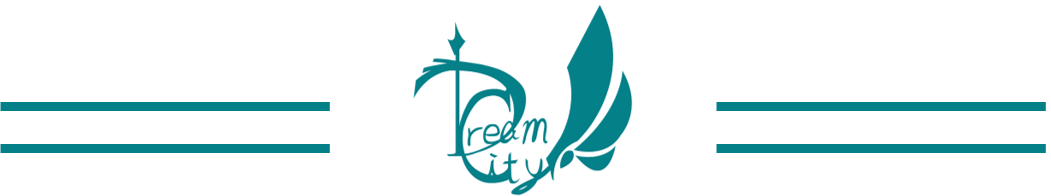
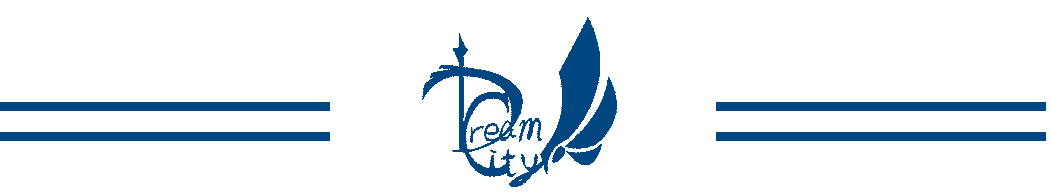
email

diff --git a/email/y.html b/email/y.html
@@ -127,7 +127,6 @@
 		}
 	</style>
 
-    <meta name="keywords" content="minecraft 地圖,minecraft地圖,rpg,麥塊地圖,pve,minecraft rpg地圖,minecraft 生存地圖,創世神地圖,島國勇者,minecraft地圖下載,過五關斬六將,minecraft 地圖下載,麥塊 地圖,minecraft大型生存地圖,minecraft 解謎地圖,創世神 地圖,minecraft生存地圖,mc地圖,夢想之都,賣快地圖,minecraft冒險地圖,minecraft ctm,地圖minecraft,minecraft 多人地圖,ctm minecraft,minecraft解謎地圖,地圖 minecraft,minecraft pvp地圖,mc 地圖,解謎地圖,minecraft 地圖推薦,島國,minecraft多人rpg地圖,生存地圖,minecraft map 巴哈,minecraft多人地圖,minecraft多人解謎地圖,minecraft rpg生存地圖,魏滅蜀之戰,科洛維亞大陸ii,minecraft rpg 地圖,minecraft 解謎,麥塊地圖下載,minecraft 雙人地圖,minecraft 冒險地圖,賣快 地圖,minecraft ctm地圖,minecraft雙人解謎地圖,minecraft pve地圖,ctm地圖,我的世界地圖,地圖,minecraft 單人地圖,1.12.2 地圖,絕界行,minecraft rpg map,minecraft解謎地圖多人,minecraft 伺服器,minecraft 推薦地圖,minecraft 1.16.1 地圖,minecraft 1.12.2 地圖,minecraft 生存,麥快地圖,minecraft 大型生存地圖,夢都,1.16.1 地圖,minecraft地圖推薦,minecraft 地圖 下載,科洛維亞,rpg地圖,minecraft雙人地圖,minecraft恐怖解謎地圖,pvp pve,ㄇㄞˉ塊地圖,minecraft 島國勇者,麥塊生存地圖,minecraft rpg冒險地圖,minecraft server權限設定,島國勇者 攻略,當個創世神 地圖,麥塊 地圖下載,minecraft ctm地圖下載,minecraft 解謎地圖 多人,minecraft大型rpg地圖,夢想之都 minecraft,minecraft 地图,pvp地圖,minecraft 多人rpg地圖,詛咒之冬,minecraft ctm map,minecraft 好玩地圖,minecraft 地圖 推薦,我的世界 地圖" />
 
 </head>
 <body class="clean-body" style="margin: 0; padding: 0; -webkit-text-size-adjust: 100%; background-color: #f1f4f8;">
@@ -208,7 +207,7 @@
 <!--[if mso]><table width="100%" cellpadding="0" cellspacing="0" border="0"><tr><td style="padding-right: 40px; padding-left: 40px; padding-top: 10px; padding-bottom: 15px; font-family: Tahoma, sans-serif"><![endif]-->
 <div style="color:#555555;font-family:Trebuchet MS, Lucida Grande, Lucida Sans Unicode, Lucida Sans, Tahoma, sans-serif;line-height:1.2;padding-top:10px;padding-right:40px;padding-bottom:15px;padding-left:40px;">
 <div style="line-height: 1.2; font-size: 12px; color: #555555; font-family: Trebuchet MS, Lucida Grande, Lucida Sans Unicode, Lucida Sans, Tahoma, sans-serif; mso-line-height-alt: 14px;">
-<p style="font-size: 38px; line-height: 1.2; text-align: center; word-break: break-word; mso-line-height-alt: 46px; margin: 0;"><span style="font-size: 38px; color: #048089;"><strong>成員招募審核結果</strong></span></p>
+<p style="font-size: 38px; line-height: 1.2; text-align: center; word-break: break-word; mso-line-height-alt: 46px; margin: 0;"><span style="font-size: 38px; color: #004680;"><strong>成員招募審核結果</strong></span></p>
 </div>
 </div>
 <!--[if mso]></td></tr></table><![endif]-->
@@ -220,7 +219,7 @@
 <p style="line-height: 1.5; font-family: inherit; word-break: break-word; font-size: 16px; mso-line-height-alt: 24px; margin: 0;"><span style="font-size: 16px;">　　感謝您申請加入夢想之都工作室，您的申請已由部門首席審閱完畢。</span></p>
 <p style="line-height: 1.5; font-family: inherit; word-break: break-word; font-size: 16px; mso-line-height-alt: 24px; margin: 0;"><span style="font-size: 16px;">　　在此恭喜您通過初試。</span></p>
 <p style="line-height: 1.5; font-family: inherit; word-break: break-word; font-size: 16px; mso-line-height-alt: 24px; margin: 0;"><span style="font-size: 16px;">　　請點擊下方連結，填寫複試表單，以利下一階段審核進行。</span></p>
-<p style="line-height: 1.5; font-family: inherit; word-break: break-word; font-size: 16px; mso-line-height-alt: 24px; margin: 0;"><span style="font-size: 16px;">　　複試表單網址：<a href="https://goo.gl/pYsiVs" rel="noopener" style="text-decoration: underline;" target="_blank">https://goo.gl/pYsiVs</a></span></p>
+<p style="line-height: 1.5; font-family: inherit; word-break: break-word; font-size: 16px; mso-line-height-alt: 24px; margin: 0;"><span style="font-size: 16px;">　　複試表單網址：<a href="https://go.dreamcity.studio/retest" rel="noopener" style="text-decoration: underline;" target="_blank">https://go.dreamcity.studio/retest</a></span></p>
 <p style="line-height: 1.5; font-family: inherit; word-break: break-word; mso-line-height-alt: NaNpx; margin: 0;"> </p>
 <p style="text-align: right; line-height: 1.5; font-family: inherit; word-break: break-word; font-size: 16px; mso-line-height-alt: 24px; margin: 0;"><span style="font-size: 16px;">夢想之都工作室管理小組　敬上</span></p>
 </div>
@@ -253,7 +252,7 @@
 <tbody>
 <tr style="vertical-align: top;" valign="top">
 <td class="divider_inner" style="word-break: break-word; vertical-align: top; min-width: 100%; -ms-text-size-adjust: 100%; -webkit-text-size-adjust: 100%; padding-top: 10px; padding-right: 10px; padding-bottom: 10px; padding-left: 10px;" valign="top">
-<table align="center" border="0" cellpadding="0" cellspacing="0" class="divider_content" role="presentation" style="table-layout: fixed; vertical-align: top; border-spacing: 0; border-collapse: collapse; mso-table-lspace: 0pt; mso-table-rspace: 0pt; border-top: 5px solid #048089; width: 100%;" valign="top" width="100%">
+<table align="center" border="0" cellpadding="0" cellspacing="0" class="divider_content" role="presentation" style="table-layout: fixed; vertical-align: top; border-spacing: 0; border-collapse: collapse; mso-table-lspace: 0pt; mso-table-rspace: 0pt; border-top: 5px solid #004680; width: 100%;" valign="top" width="100%">
 <tbody>
 <tr style="vertical-align: top;" valign="top">
 <td style="word-break: break-word; vertical-align: top; -ms-text-size-adjust: 100%; -webkit-text-size-adjust: 100%;" valign="top"><span></span></td>

diff --git a/email/n.html b/email/n.html
@@ -208,7 +208,7 @@
 <!--[if mso]><table width="100%" cellpadding="0" cellspacing="0" border="0"><tr><td style="padding-right: 40px; padding-left: 40px; padding-top: 10px; padding-bottom: 15px; font-family: Tahoma, sans-serif"><![endif]-->
 <div style="color:#555555;font-family:Trebuchet MS, Lucida Grande, Lucida Sans Unicode, Lucida Sans, Tahoma, sans-serif;line-height:1.2;padding-top:10px;padding-right:40px;padding-bottom:15px;padding-left:40px;">
 <div style="line-height: 1.2; font-size: 12px; color: #555555; font-family: Trebuchet MS, Lucida Grande, Lucida Sans Unicode, Lucida Sans, Tahoma, sans-serif; mso-line-height-alt: 14px;">
-<p style="font-size: 38px; line-height: 1.2; text-align: center; word-break: break-word; mso-line-height-alt: 46px; margin: 0;"><span style="font-size: 38px; color: #048089;"><strong>成員招募審核結果</strong></span></p>
+<p style="font-size: 38px; line-height: 1.2; text-align: center; word-break: break-word; mso-line-height-alt: 46px; margin: 0;"><span style="font-size: 38px; color: #004680;"><strong>成員招募審核結果</strong></span></p>
 </div>
 </div>
 <!--[if mso]></td></tr></table><![endif]-->
@@ -252,7 +252,7 @@
 <tbody>
 <tr style="vertical-align: top;" valign="top">
 <td class="divider_inner" style="word-break: break-word; vertical-align: top; min-width: 100%; -ms-text-size-adjust: 100%; -webkit-text-size-adjust: 100%; padding-top: 10px; padding-right: 10px; padding-bottom: 10px; padding-left: 10px;" valign="top">
-<table align="center" border="0" cellpadding="0" cellspacing="0" class="divider_content" role="presentation" style="table-layout: fixed; vertical-align: top; border-spacing: 0; border-collapse: collapse; mso-table-lspace: 0pt; mso-table-rspace: 0pt; border-top: 5px solid #048089; width: 100%;" valign="top" width="100%">
+<table align="center" border="0" cellpadding="0" cellspacing="0" class="divider_content" role="presentation" style="table-layout: fixed; vertical-align: top; border-spacing: 0; border-collapse: collapse; mso-table-lspace: 0pt; mso-table-rspace: 0pt; border-top: 5px solid #004680; width: 100%;" valign="top" width="100%">
 <tbody>
 <tr style="vertical-align: top;" valign="top">
 <td style="word-break: break-word; vertical-align: top; -ms-text-size-adjust: 100%; -webkit-text-size-adjust: 100%;" valign="top"><span></span></td>
